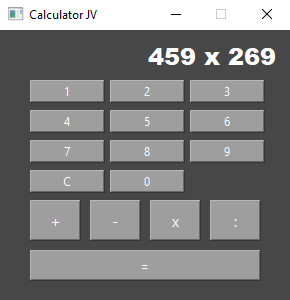
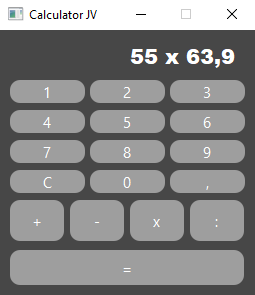
Add files via upload

diff --git a/ui_interface.py b/ui_interface.py
@@ -22,18 +22,18 @@ class Ui_Form(object):
     def setupUi(self, Form):
         if not Form.objectName():
             Form.setObjectName(u"Form")
-        Form.resize(290, 270)
-        Form.setMinimumSize(QSize(290, 270))
-        Form.setMaximumSize(QSize(300, 270))
+        Form.resize(255, 265)
+        Form.setMinimumSize(QSize(255, 265))
+        Form.setMaximumSize(QSize(255, 265))
         Form.setAutoFillBackground(False)
         Form.setStyleSheet(u"background-color: rgb(71, 71, 71);\n"
 "")
         self.calculator_label = QLabel(Form)
         self.calculator_label.setObjectName(u"calculator_label")
-        self.calculator_label.setGeometry(QRect(0, 5, 291, 41))
+        self.calculator_label.setGeometry(QRect(10, 10, 231, 31))
         font = QFont()
         font.setFamilies([u"Arial Black"])
-        font.setPointSize(18)
+        font.setPointSize(16)
         font.setBold(True)
         font.setItalic(False)
         font.setKerning(True)
@@ -45,85 +45,111 @@ class Ui_Form(object):
         self.calculator_label.setAlignment(Qt.AlignRight|Qt.AlignTrailing|Qt.AlignVCenter)
         self.calculator_label.setWordWrap(False)
         self.calculator_label.setMargin(0)
-        self.calculator_label.setIndent(15)
+        self.calculator_label.setIndent(6)
         self.pushButton_1 = QPushButton(Form)
         self.pushButton_1.setObjectName(u"pushButton_1")
-        self.pushButton_1.setGeometry(QRect(30, 50, 75, 23))
+        self.pushButton_1.setGeometry(QRect(10, 50, 75, 23))
+        font1 = QFont()
+        font1.setPointSize(11)
+        self.pushButton_1.setFont(font1)
         self.pushButton_1.setStyleSheet(u"color: white;\n"
-"background-color: rgb(158, 158, 158);")
+"background-color: rgb(158, 158, 158);\n"
+"border-radius: 10px;\n"
+"")
         self.pushButton_2 = QPushButton(Form)
         self.pushButton_2.setObjectName(u"pushButton_2")
-        self.pushButton_2.setGeometry(QRect(110, 50, 75, 23))
+        self.pushButton_2.setGeometry(QRect(90, 50, 75, 23))
+        self.pushButton_2.setFont(font1)
         self.pushButton_2.setStyleSheet(u"color: white;\n"
-"background-color: rgb(158, 158, 158);")
+"background-color: rgb(158, 158, 158);\n"
+"border-radius: 10px;")
         self.pushButton_3 = QPushButton(Form)
         self.pushButton_3.setObjectName(u"pushButton_3")
-        self.pushButton_3.setGeometry(QRect(190, 50, 75, 23))
+        self.pushButton_3.setGeometry(QRect(170, 50, 75, 23))
+        self.pushButton_3.setFont(font1)
         self.pushButton_3.setStyleSheet(u"color: white;\n"
-"background-color: rgb(158, 158, 158);")
+"background-color: rgb(158, 158, 158);\n"
+"border-radius: 10px;")
         self.pushButton_4 = QPushButton(Form)
         self.pushButton_4.setObjectName(u"pushButton_4")
-        self.pushButton_4.setGeometry(QRect(30, 80, 75, 23))
+        self.pushButton_4.setGeometry(QRect(10, 80, 75, 23))
+        self.pushButton_4.setFont(font1)
         self.pushButton_4.setStyleSheet(u"color: white;\n"
-"background-color: rgb(158, 158, 158);")
+"background-color: rgb(158, 158, 158);\n"
+"border-radius: 10px;")
         self.pushButton_5 = QPushButton(Form)
         self.pushButton_5.setObjectName(u"pushButton_5")
-        self.pushButton_5.setGeometry(QRect(110, 80, 75, 23))
+        self.pushButton_5.setGeometry(QRect(90, 80, 75, 23))
+        self.pushButton_5.setFont(font1)
         self.pushButton_5.setStyleSheet(u"color: white;\n"
-"background-color: rgb(158, 158, 158);")
+"background-color: rgb(158, 158, 158);\n"
+"border-radius: 10px;")
         self.pushButton_6 = QPushButton(Form)
         self.pushButton_6.setObjectName(u"pushButton_6")
-        self.pushButton_6.setGeometry(QRect(190, 80, 75, 23))
+        self.pushButton_6.setGeometry(QRect(170, 80, 75, 23))
+        self.pushButton_6.setFont(font1)
         self.pushButton_6.setStyleSheet(u"color: white;\n"
-"background-color: rgb(158, 158, 158);")
+"background-color: rgb(158, 158, 158);\n"
+"border-radius: 10px;")
         self.pushButton_7 = QPushButton(Form)
         self.pushButton_7.setObjectName(u"pushButton_7")
-        self.pushButton_7.setGeometry(QRect(30, 110, 75, 23))
+        self.pushButton_7.setGeometry(QRect(10, 110, 75, 23))
+        self.pushButton_7.setFont(font1)
         self.pushButton_7.setStyleSheet(u"color: white;\n"
-"background-color: rgb(158, 158, 158);")
+"background-color: rgb(158, 158, 158);\n"
+"border-radius: 10px;")
         self.pushButton_8 = QPushButton(Form)
         self.pushButton_8.setObjectName(u"pushButton_8")
-        self.pushButton_8.setGeometry(QRect(110, 110, 75, 23))
+        self.pushButton_8.setGeometry(QRect(90, 110, 75, 23))
+        self.pushButton_8.setFont(font1)
         self.pushButton_8.setStyleSheet(u"color: white;\n"
-"background-color: rgb(158, 158, 158);")
+"background-color: rgb(158, 158, 158);\n"
+"border-radius: 10px;")
         self.pushButton_9 = QPushButton(Form)
         self.pushButton_9.setObjectName(u"pushButton_9")
-        self.pushButton_9.setGeometry(QRect(190, 110, 75, 23))
+        self.pushButton_9.setGeometry(QRect(170, 110, 75, 23))
+        self.pushButton_9.setFont(font1)
         self.pushButton_9.setStyleSheet(u"color: white;\n"
-"background-color: rgb(158, 158, 158);")
+"background-color: rgb(158, 158, 158);\n"
+"border-radius: 10px;")
         self.pushButton_0 = QPushButton(Form)
         self.pushButton_0.setObjectName(u"pushButton_0")
-        self.pushButton_0.setGeometry(QRect(110, 140, 75, 23))
+        self.pushButton_0.setGeometry(QRect(90, 140, 75, 23))
+        self.pushButton_0.setFont(font1)
         self.pushButton_0.setStyleSheet(u"color: white;\n"
-"background-color: rgb(158, 158, 158);")
+"background-color: rgb(158, 158, 158);\n"
+"border-radius: 10px;")
         self.pushButton_C = QPushButton(Form)
         self.pushButton_C.setObjectName(u"pushButton_C")
-        self.pushButton_C.setGeometry(QRect(30, 140, 75, 23))
+        self.pushButton_C.setGeometry(QRect(10, 140, 75, 23))
+        self.pushButton_C.setFont(font1)
         self.pushButton_C.setStyleSheet(u"color: white;\n"
-"background-color: rgb(158, 158, 158);")
+"background-color: rgb(158, 158, 158);\n"
+"border-radius: 10px;")
         self.pushButton_plus = QPushButton(Form)
         self.pushButton_plus.setObjectName(u"pushButton_plus")
-        self.pushButton_plus.setGeometry(QRect(30, 170, 51, 41))
-        font1 = QFont()
-        font1.setPointSize(12)
+        self.pushButton_plus.setGeometry(QRect(10, 170, 54, 41))
         self.pushButton_plus.setFont(font1)
         self.pushButton_plus.setStyleSheet(u"color: white;\n"
-"background-color: rgb(158, 158, 158);")
+"background-color: rgb(158, 158, 158);\n"
+"border-radius: 10px;")
         self.pushButton_minus = QPushButton(Form)
         self.pushButton_minus.setObjectName(u"pushButton_minus")
-        self.pushButton_minus.setGeometry(QRect(90, 170, 51, 41))
+        self.pushButton_minus.setGeometry(QRect(70, 170, 54, 41))
         self.pushButton_minus.setFont(font1)
         self.pushButton_minus.setStyleSheet(u"color: white;\n"
-"background-color: rgb(158, 158, 158);")
+"background-color: rgb(158, 158, 158);\n"
+"border-radius: 10px;")
         self.pushButton_multiplication = QPushButton(Form)
         self.pushButton_multiplication.setObjectName(u"pushButton_multiplication")
-        self.pushButton_multiplication.setGeometry(QRect(150, 170, 51, 41))
+        self.pushButton_multiplication.setGeometry(QRect(130, 170, 54, 41))
         self.pushButton_multiplication.setFont(font1)
         self.pushButton_multiplication.setStyleSheet(u"color: white;\n"
-"background-color: rgb(158, 158, 158);")
+"background-color: rgb(158, 158, 158);\n"
+"border-radius: 10px;")
         self.pushButton_division = QPushButton(Form)
         self.pushButton_division.setObjectName(u"pushButton_division")
-        self.pushButton_division.setGeometry(QRect(210, 170, 51, 41))
+        self.pushButton_division.setGeometry(QRect(190, 170, 54, 41))
         sizePolicy = QSizePolicy(QSizePolicy.Minimum, QSizePolicy.Fixed)
         sizePolicy.setHorizontalStretch(0)
         sizePolicy.setVerticalStretch(0)
@@ -131,7 +157,8 @@ class Ui_Form(object):
         self.pushButton_division.setSizePolicy(sizePolicy)
         self.pushButton_division.setFont(font1)
         self.pushButton_division.setStyleSheet(u"color: white;\n"
-"background-color: rgb(158, 158, 158);")
+"background-color: rgb(158, 158, 158);\n"
+"border-radius: 10px;")
         self.pushButton_division.setCheckable(False)
         self.pushButton_division.setAutoRepeat(False)
         self.pushButton_division.setAutoExclusive(False)
@@ -139,9 +166,18 @@ class Ui_Form(object):
         self.pushButton_division.setFlat(False)
         self.pushButton_result = QPushButton(Form)
         self.pushButton_result.setObjectName(u"pushButton_result")
-        self.pushButton_result.setGeometry(QRect(30, 220, 231, 31))
+        self.pushButton_result.setGeometry(QRect(10, 220, 234, 35))
+        self.pushButton_result.setFont(font1)
         self.pushButton_result.setStyleSheet(u"color: white;\n"
-"background-color: rgb(158, 158, 158);")
+"background-color: rgb(158, 158, 158);\n"
+"border-radius: 10px;")
+        self.pushButton_comma = QPushButton(Form)
+        self.pushButton_comma.setObjectName(u"pushButton_comma")
+        self.pushButton_comma.setGeometry(QRect(170, 140, 75, 23))
+        self.pushButton_comma.setFont(font1)
+        self.pushButton_comma.setStyleSheet(u"color: white;\n"
+"background-color: rgb(158, 158, 158);\n"
+"border-radius: 10px;")
 
         self.retranslateUi(Form)
 
@@ -173,5 +209,6 @@ class Ui_Form(object):
         self.pushButton_multiplication.setText(QCoreApplication.translate("Form", u"x", None))
         self.pushButton_division.setText(QCoreApplication.translate("Form", u":", None))
         self.pushButton_result.setText(QCoreApplication.translate("Form", u"=", None))
+        self.pushButton_comma.setText(QCoreApplication.translate("Form", u",", None))
     # retranslateUi
 

diff --git a/main.py b/main.py
@@ -20,7 +20,8 @@ class Calculator:
         self.length_first = 0       # used to aid in the calculation of second number
         self.result = False         # used to aid display the result
 
-        self.error_message_zero = "Not divisible by zero"
+        self.error_message_zero = "Not divisible by 0"
+        self.error_message_zero_2 = "Cannot divide 0"
 
 
     """ main method """
@@ -52,6 +53,7 @@ class Calculator:
         self.form.pushButton_multiplication.clicked.connect(self.input_multiplication)
         self.form.pushButton_division.clicked.connect(self.input_division)
         self.form.pushButton_result.clicked.connect(self.input_result)
+        self.form.pushButton_comma.clicked.connect(self.input_comma)
 
 
     """ output to the display """
@@ -61,9 +63,22 @@ class Calculator:
             if len(self.data) > 1 and self.data[0] == "0" and not self.math_symbol:
                 del(self.data[0])
             self.data_to_print = ''.join(self.data)
+            if (self.data_to_print.find(".")) > 0:
+                self.data_to_print = self.data_to_print.replace(".",",")
             self.form.calculator_label.setText(self.data_to_print)
+            if (self.data_to_print.find(",")) > 0:
+                self.data_to_print = self.data_to_print.replace(",",".")
         elif self.result:
-            self.form.calculator_label.setText(str(self.data_to_print))
+            try:
+                if (self.data_to_print % round(self.data_to_print)) == 0:
+                    self.data_to_print = int(self.data_to_print)
+                else:
+                    self.data_to_print = str(self.data_to_print)
+                    self.data_to_print = self.data_to_print.replace(".",",")    
+            except:  
+                self.data_to_print = self.data_to_print.replace(".",",")
+            self.data_to_print = str(self.data_to_print)
+            self.form.calculator_label.setText(self.data_to_print)
         else:
             self.form.calculator_label.setText("0")
 
@@ -149,6 +164,12 @@ class Calculator:
         self.__str__()
 
 
+    """ comma (dot) input for float numbers """
+
+    def input_comma(self):
+        self.data.append(".")
+        self.__str__()
+
     """ input for C button which will reset display and data """
 
     def input_c(self):
@@ -211,19 +232,21 @@ class Calculator:
         self.length_first = (len(self.data_first_num) + 3)
         self.data_second_num = self.data_to_print[self.length_first:(len(self.data_to_print))]
         if self.math_symbol == 1:
-            self.data_to_print = int(self.data_first_num) + int(self.data_second_num)
+            self.data_to_print = float(self.data_first_num) + float(self.data_second_num)
             self.result = True
         elif self.math_symbol == 2:
-            self.data_to_print = int(self.data_first_num) - int(self.data_second_num)
+            self.data_to_print = float(self.data_first_num) - float(self.data_second_num)
             self.result = True
         elif self.math_symbol == 3:
-            self.data_to_print = int(self.data_first_num) * int(self.data_second_num)
+            self.data_to_print = float(self.data_first_num) * float(self.data_second_num)
             self.result = True
         elif self.math_symbol == 4:
             if self.data_second_num == "0":
                 self.data_to_print = self.error_message_zero
+            elif self.data_first_num == "0":
+                self.data_to_print = self.error_message_zero_2
             else:
-                self.data_to_print = int(self.data_first_num) / int(self.data_second_num)
+                self.data_to_print = float(self.data_first_num) / float(self.data_second_num)
                 self.data_to_print = round(self.data_to_print, 3)
             self.result = True
         self.__str__()
